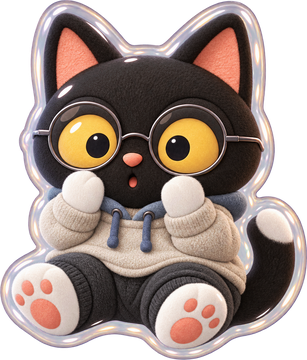
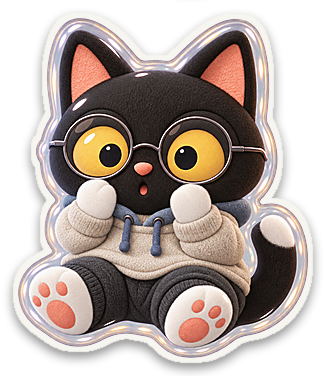
E handheld: crisper sticker — outline and shadow baked in, sharpened, a touch bigger

diff --git a/plans.html b/plans.html
@@ -7,7 +7,7 @@
 <link rel="preconnect" href="https://fonts.googleapis.com">
 <link rel="preconnect" href="https://fonts.gstatic.com" crossorigin>
 <link href="https://fonts.googleapis.com/css2?family=Poppins:wght@400;500;600;700&family=Bitcount+Grid+Single:wght@400;500&family=Inter:wght@400;500;600;700&family=Playfair+Display:ital,wght@0,500;0,700;0,800;1,500&family=JetBrains+Mono:wght@400;500;700&family=Caveat:wght@500;600&family=Archivo+Black&family=Doto:wght@600;800&display=swap" rel="stylesheet">
-<link rel="stylesheet" href="plans.css?v=95">
+<link rel="stylesheet" href="plans.css?v=97">
 </head>
 <body>
 <header class="sw">
@@ -25,6 +25,6 @@
   </span>
 </header>
 <main class="stage" id="stage"></main>
-<script src="plans.js?v=69"></script>
+<script src="plans.js?v=71"></script>
 </body>
 </html>

diff --git a/plans.css b/plans.css
@@ -1985,3 +1985,6 @@ label:hover .ed,label:focus-within .ed{opacity:1;color:#fff}
 .room--square .deco__stk--cat{--r:-8deg;height:62%;right:4%;bottom:6%;transform:rotate(var(--r));pointer-events:auto;cursor:pointer}
 .deco__stk.is-tap{animation:stkTap .32s cubic-bezier(.3,1.5,.5,1)}
 @keyframes stkTap{35%{transform:rotate(var(--r)) translateY(6%) scale(.97)}100%{transform:rotate(var(--r))}}
+/* the sticker's white edge and shadow are baked into the image — no filters, so it stays crisp on the 3D lid */
+.room--square .deco__stk--cat{filter:none;height:78%;right:3.5%;bottom:2%;image-rendering:auto;backface-visibility:hidden}
+.room--square .deco__stk--cat{height:100%;right:2.5%;bottom:-4%}

diff --git a/plans.js b/plans.js
@@ -266,7 +266,7 @@ function compE(p) {
             <!-- square console only: the shell below the 16:9 screen, dressed up -->
             <div class="lid__deco" aria-hidden="true">
               <span class="deco__id"><i class="deco__word"></i><span class="deco__stripes"><i></i><i></i><i></i></span></span>
-              <img class="deco__stk deco__stk--cat" id="decoStk" src="assets/stk-epoxy-${1 + Math.floor(Math.random() * 6)}.png" alt="">
+              <img class="deco__stk deco__stk--cat" id="decoStk" src="assets/stk-epoxy-${1 + Math.floor(Math.random() * 6)}.png?v=3" alt="">
             </div>
           </div>
           <div class="con__back">
